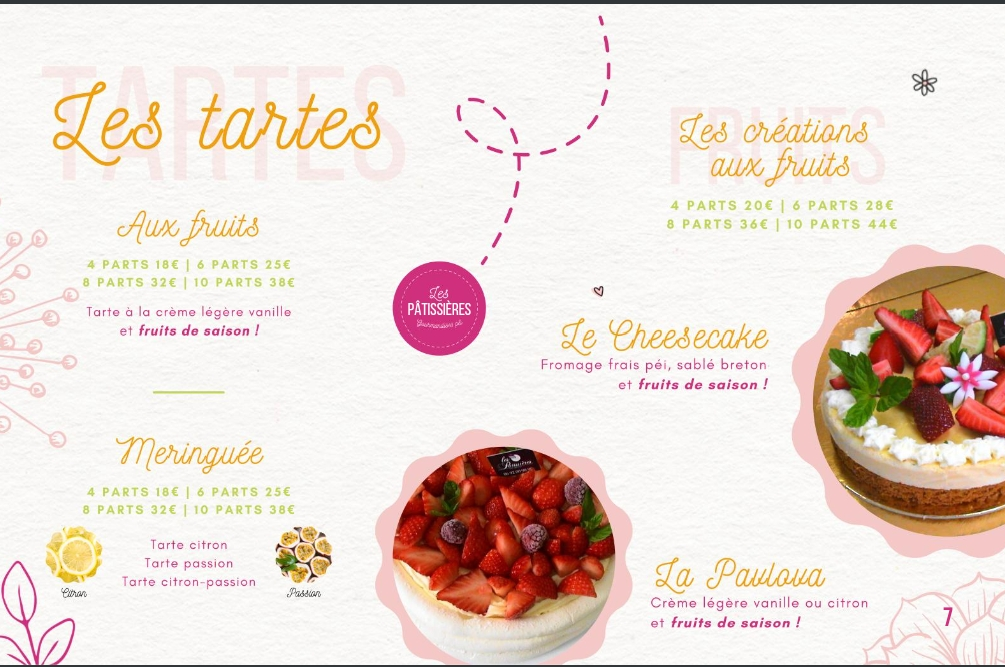
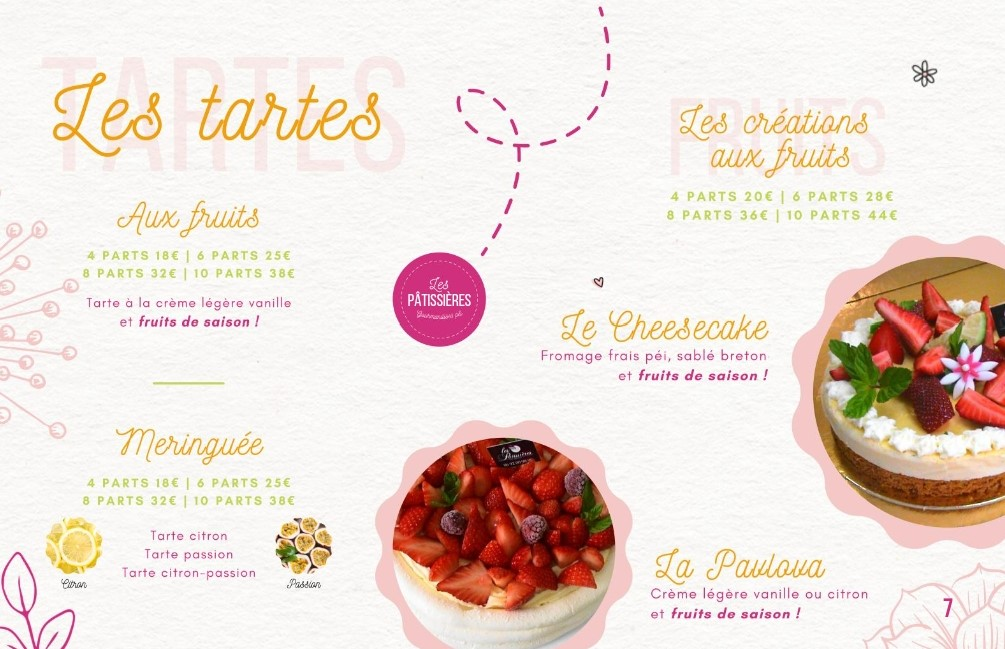
space letter in titles

diff --git a/src/App.css b/src/App.css
@@ -29,7 +29,8 @@
 
 h1,h3 {
   font-family: var(--font-title);
-  letter-spacing: 0.1em;
+  letter-spacing: 0.05em;
+
 }
 
 a {
